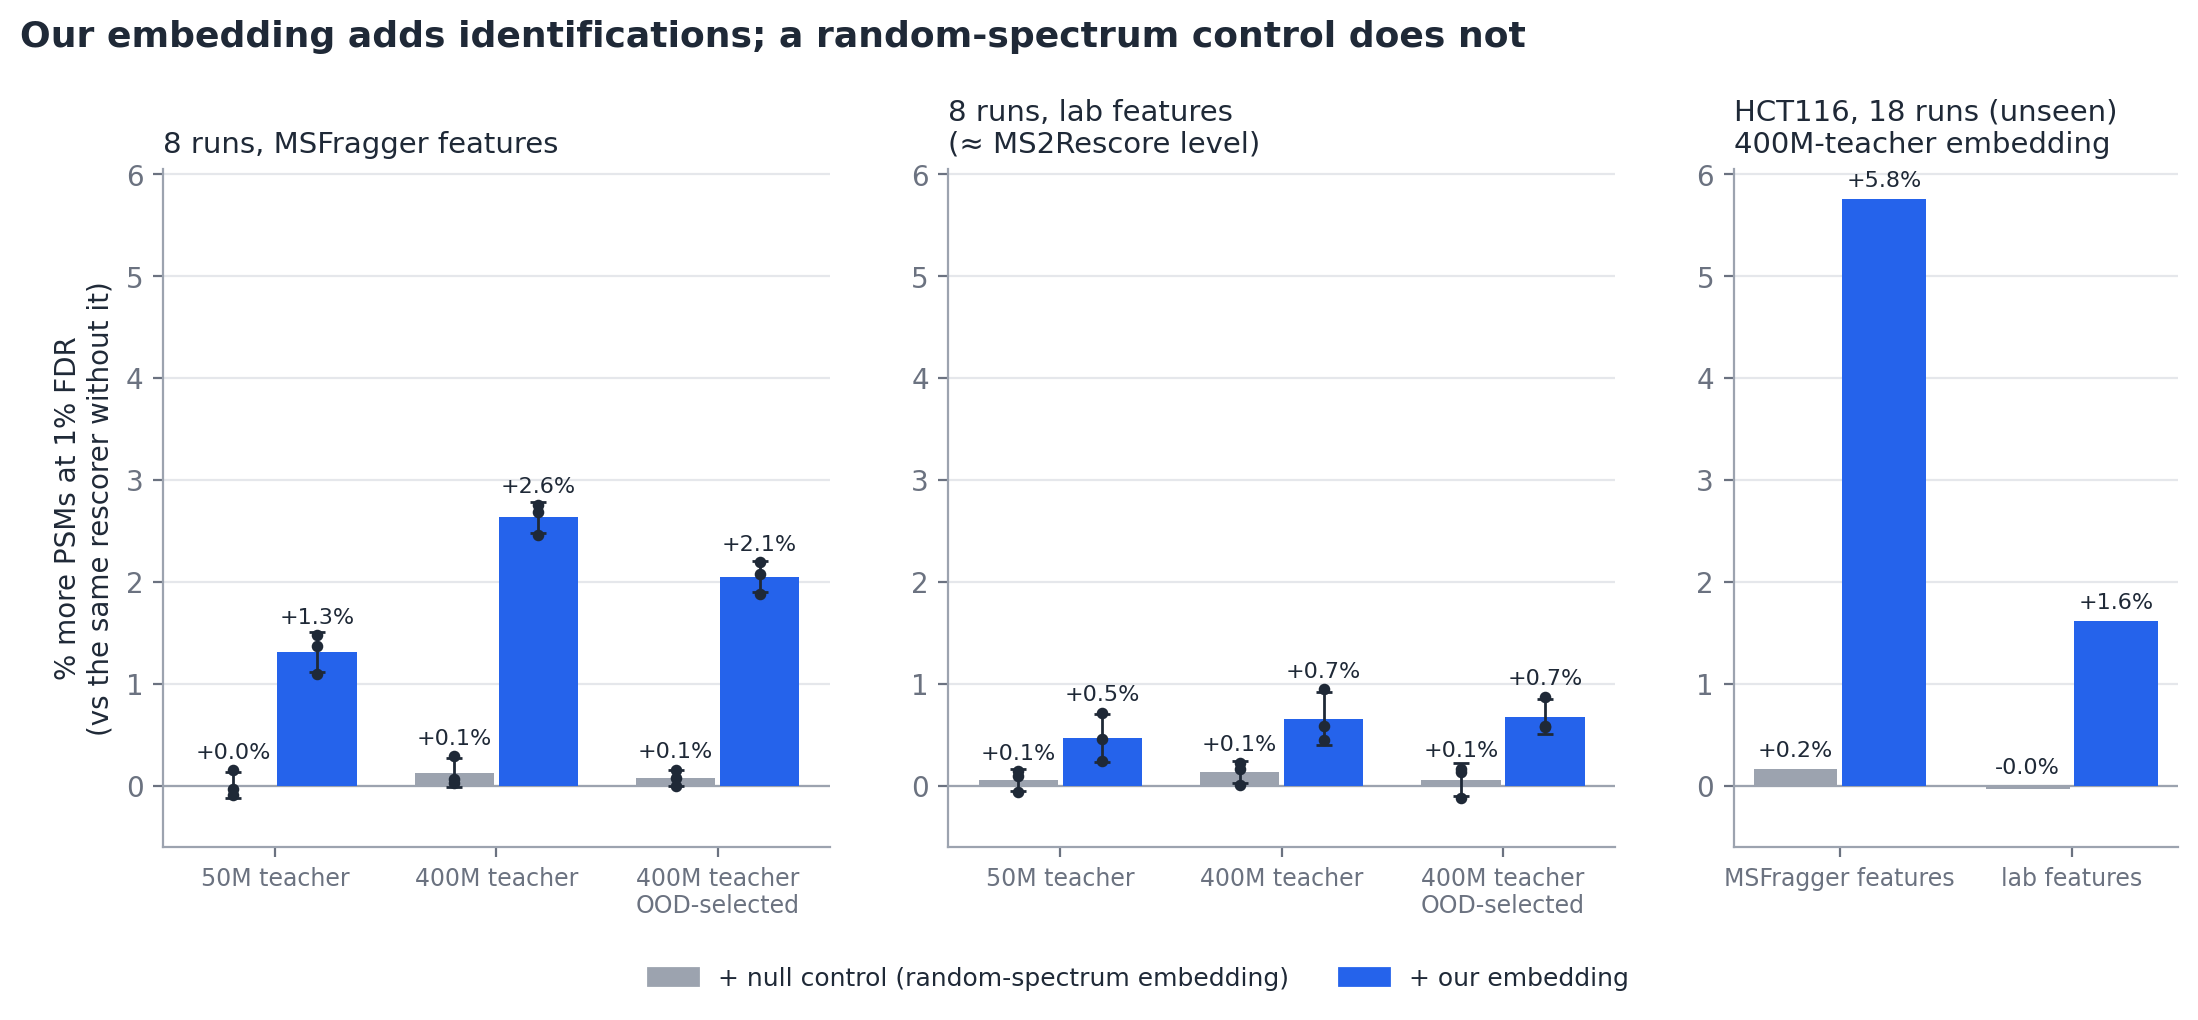
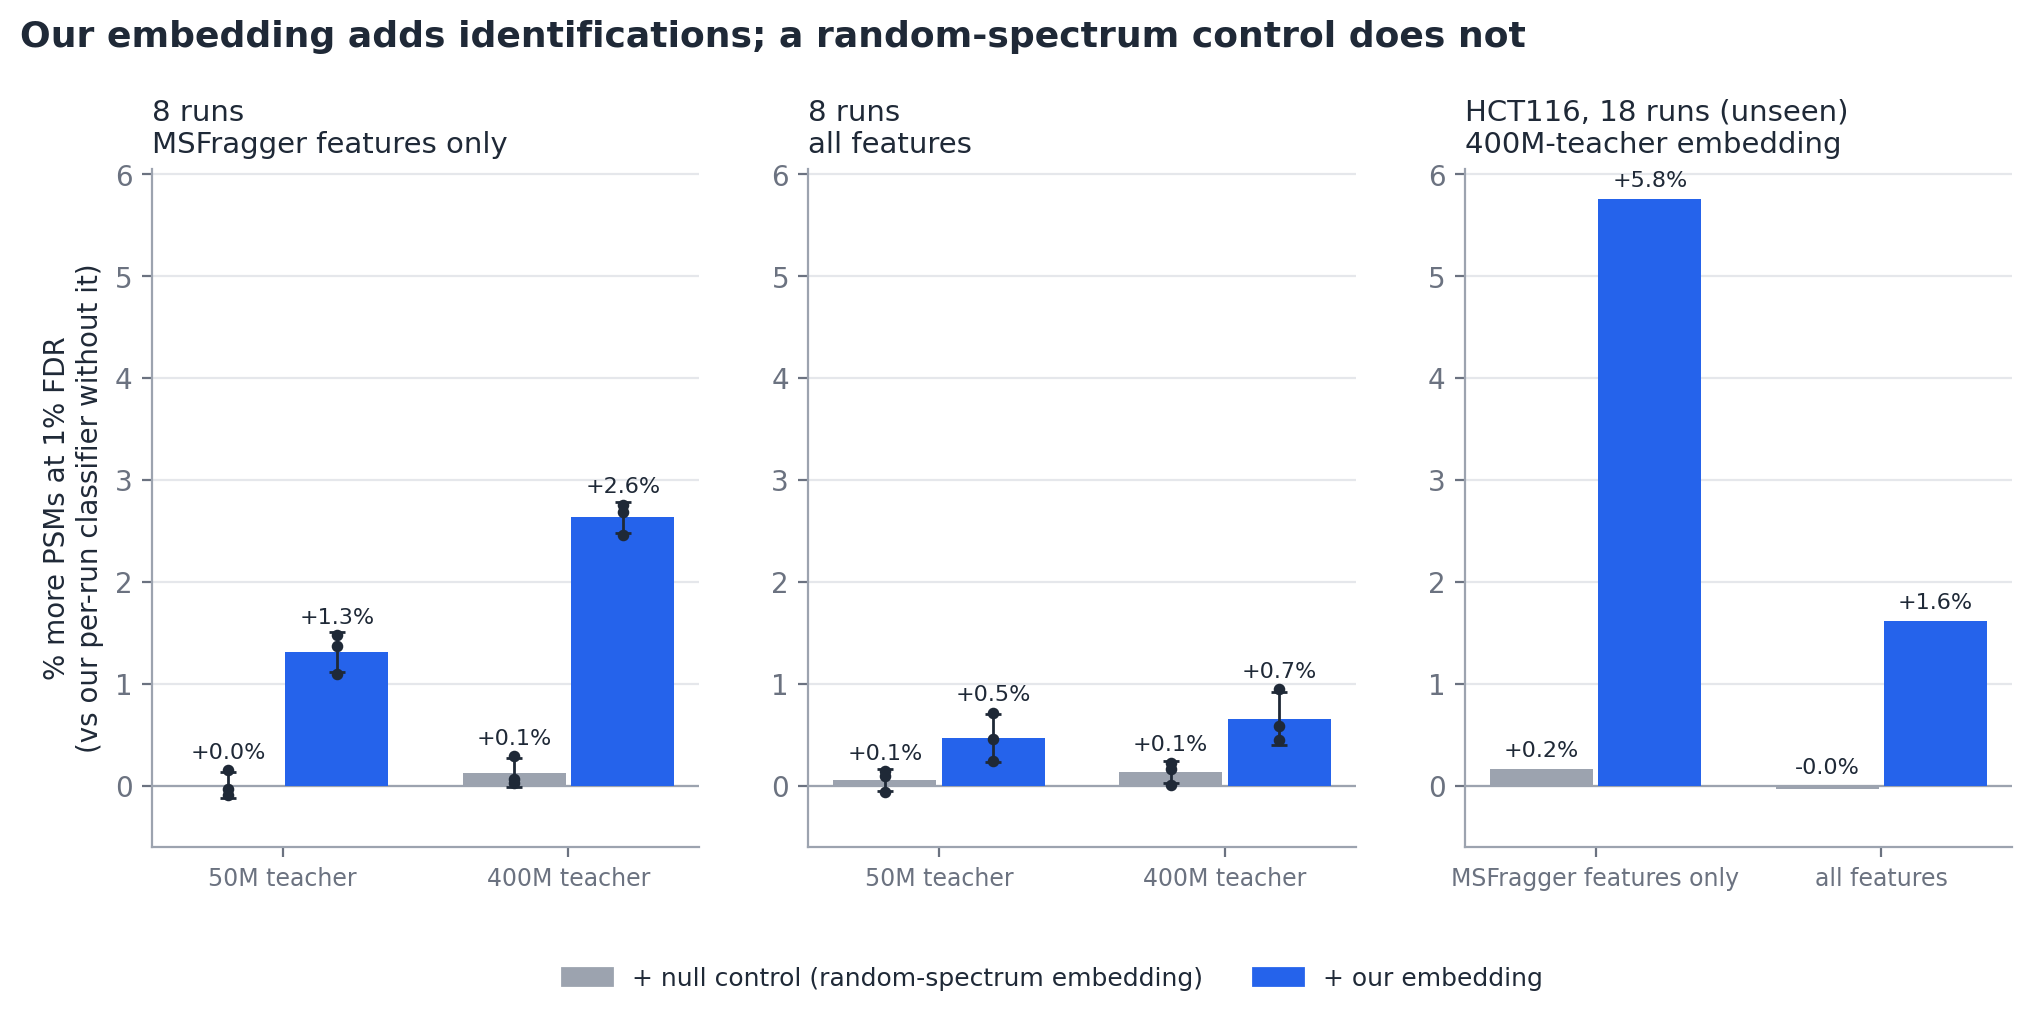
R figures: drop OOD-selected embedding; name the rescorer 'our per-run classifier' (MSFragger features only called out); MSFragger count read from file
Claude-Session: https://claude.ai/code/session_01ATgkXx1oRRqvzB3G8wYeta

diff --git a/sweeps/package_rerank.py b/sweeps/package_rerank.py
@@ -36,9 +36,8 @@ STYLE = {"font.family": "DejaVu Sans", "font.size": 10, "axes.edgecolor": "#9ca3
 EMB = {
     "A1": ("50M teacher", [PSM / f"a1-rerun_r4_global+perrun_seed{s}.json" for s in (0, 1, 2)]),
     "A2": ("400M teacher", [PSM / "a2-400m_r4_seed0.log"] + [PSM / f"a2-400m_r4_global+perrun_seed{s}.json" for s in (1, 2)]),
-    "A-oodsel": ("400M teacher, OOD-selected", [PSM / f"400m-oodsel_r4_global+perrun_seed{s}.json" for s in (0, 1, 2)]),
 }
-BASES = {"ms": "MSFragger features", "lab": "lab features (≈ MS2Rescore level)"}
+BASES = {"ms": "MSFragger features only", "lab": "all features"}   # all = the lab's full feature table
 VARIANTS = ["", "+embws", "+nullws"]
 
 
@@ -80,10 +79,9 @@ def fig_gain(rows):
     cols = {"null control": "#9ca3af", "embedding": "#2563eb"}
     panels = [("8 runs (6 HEK, 2 HCT116)", BASES["ms"]), ("8 runs (6 HEK, 2 HCT116)", BASES["lab"]),
               ("HCT116, 18 runs (unseen)", None)]
-    titles = ["8 runs, MSFragger features", "8 runs, lab features\n(≈ MS2Rescore level)",
-              "HCT116, 18 runs (unseen)\n400M-teacher embedding"]
+    titles = ["8 runs\nMSFragger features only", "8 runs\nall features", "HCT116, 18 runs (unseen)\n400M-teacher embedding"]
     with plt.rc_context(STYLE):
-        fig, axes = plt.subplots(1, 3, figsize=(13, 4.4), gridspec_kw={"width_ratios": [3, 3, 2]})
+        fig, axes = plt.subplots(1, 3, figsize=(12, 4.4), gridspec_kw={"width_ratios": [2, 2, 2]})
         for ax, (ds, base), title in zip(axes, panels, titles):
             ax.yaxis.grid(True, color=GRIDC, lw=0.8); ax.set_axisbelow(True); ax.axhline(0, color="#9ca3af", lw=0.8)
             groups = [e[0] for e in EMB.values()] if base else list(BASES.values())
@@ -99,10 +97,9 @@ def fig_gain(rows):
                         ax.scatter(np.full(len(v), x), v, s=10, color=INK, zorder=3)
                     ax.text(x, max(v.max(), 0) + 0.12, f"{v.mean():+.1f}%", ha="center", fontsize=8)
             ax.set_xticks(range(len(groups)))
-            ax.set_xticklabels([g.replace(", OOD-selected", "\nOOD-selected").replace(" (≈ MS2Rescore level)", "")
-                                for g in groups], fontsize=8.5)
+            ax.set_xticklabels(groups, fontsize=8.5)
             ax.set_title(title, loc="left", fontsize=10.5)
-        axes[0].set_ylabel("% more PSMs at 1% FDR\n(vs the same rescorer without it)")
+        axes[0].set_ylabel("% more PSMs at 1% FDR\n(vs our per-run classifier without it)")
         top = max(a.get_ylim()[1] for a in axes)
         for a in axes:
             a.set_ylim(-0.6, top)
@@ -118,24 +115,26 @@ def benchmark_rows():
     ms2r = json.loads((REPO / "baselines_wip" / "results_ms2rescore.json").read_text())
     rows = []
     d0 = perrun(EMB["A2"][1][0])
-    rows.append(dict(method="MSFragger (e-value)", seed="", psms=89693, source="per-run results, methods/all/msfragger"))
+    src = EMB["A2"][1][1]
+    rows.append(dict(method="MSFragger (e-value)", seed="", source=f"{src.name}:methods/all/msfragger",
+                     psms=json.loads(src.read_text())["methods"]["all"]["msfragger"]["psms_1pct"]))
     for k, lab in (("ms2rescore:searchonly", "MS2Rescore, search features only"),
                    ("ms2rescore:full", "MS2Rescore full (MS2PIP + DeepLC)")):
         rows.append(dict(method=lab, seed="", psms=ms2r[k]["all"]["pooled"], source=f"results_ms2rescore.json:{k}"))
     for seed, src in enumerate(EMB["A2"][1]):
         p = perrun(src)
-        for feat, lab in (("ms", "ours per-run, MSFragger features"), ("ms+embws", "ours per-run, MSFragger features + embedding"),
-                          ("lab", "ours per-run, lab features"), ("lab+embws", "ours per-run, lab features + embedding")):
+        for feat, lab in (("ms", "our per-run classifier, MSFragger features only"), ("ms+embws", "our per-run classifier, MSFragger features only + embedding"),
+                          ("lab", "our per-run classifier"), ("lab+embws", "our per-run classifier + embedding")):
             rows.append(dict(method=lab, seed=seed, psms=p[feat], source=src.name))
     assert d0  # A2 seed 0 parsed from its log
     return rows
 
 
 def fig_benchmark(rows):
-    order = ["MSFragger (e-value)", "ours per-run, MSFragger features", "ours per-run, MSFragger features + embedding",
-             "MS2Rescore, search features only", "MS2Rescore full (MS2PIP + DeepLC)", "ours per-run, lab features",
-             "ours per-run, lab features + embedding"]
-    col = lambda m: "#2563eb" if "+ embedding" in m else ("#93c5fd" if m.startswith("ours") else
+    order = ["MSFragger (e-value)", "our per-run classifier, MSFragger features only", "our per-run classifier, MSFragger features only + embedding",
+             "MS2Rescore, search features only", "MS2Rescore full (MS2PIP + DeepLC)", "our per-run classifier",
+             "our per-run classifier + embedding"]
+    col = lambda m: "#2563eb" if "+ embedding" in m else ("#93c5fd" if m.startswith("our ") else
                                                           ("#f59e0b" if "MS2Rescore" in m else "#9ca3af"))
     with plt.rc_context(STYLE):
         fig, ax = plt.subplots(figsize=(8.5, 4.2))
@@ -148,7 +147,7 @@ def fig_benchmark(rows):
         ax.set_yticks(range(len(order))); ax.set_yticklabels(order); ax.invert_yaxis()
         ax.set_xlim(80000, 138000); ax.set_xlabel("PSMs at 1% FDR (8 runs: 6 HEK, 2 HCT116)")
         ax.set_title("PSM rescoring: identifications at 1% FDR", loc="left", fontsize=13, fontweight="bold", pad=10)
-        fig.text(0.01, -0.03, "Ours: per-run linear rescoring, mean ± sd over 3 seeds; embedding = 400M-teacher peptide embedder.",
+        fig.text(0.01, -0.03, "Our per-run classifier: mean ± sd over 3 seeds; embedding = 400M-teacher peptide embedder.",
                  fontsize=8, color=MUTED)
         fig.savefig(FIG / "R_benchmark.png"); plt.close(fig)
 
